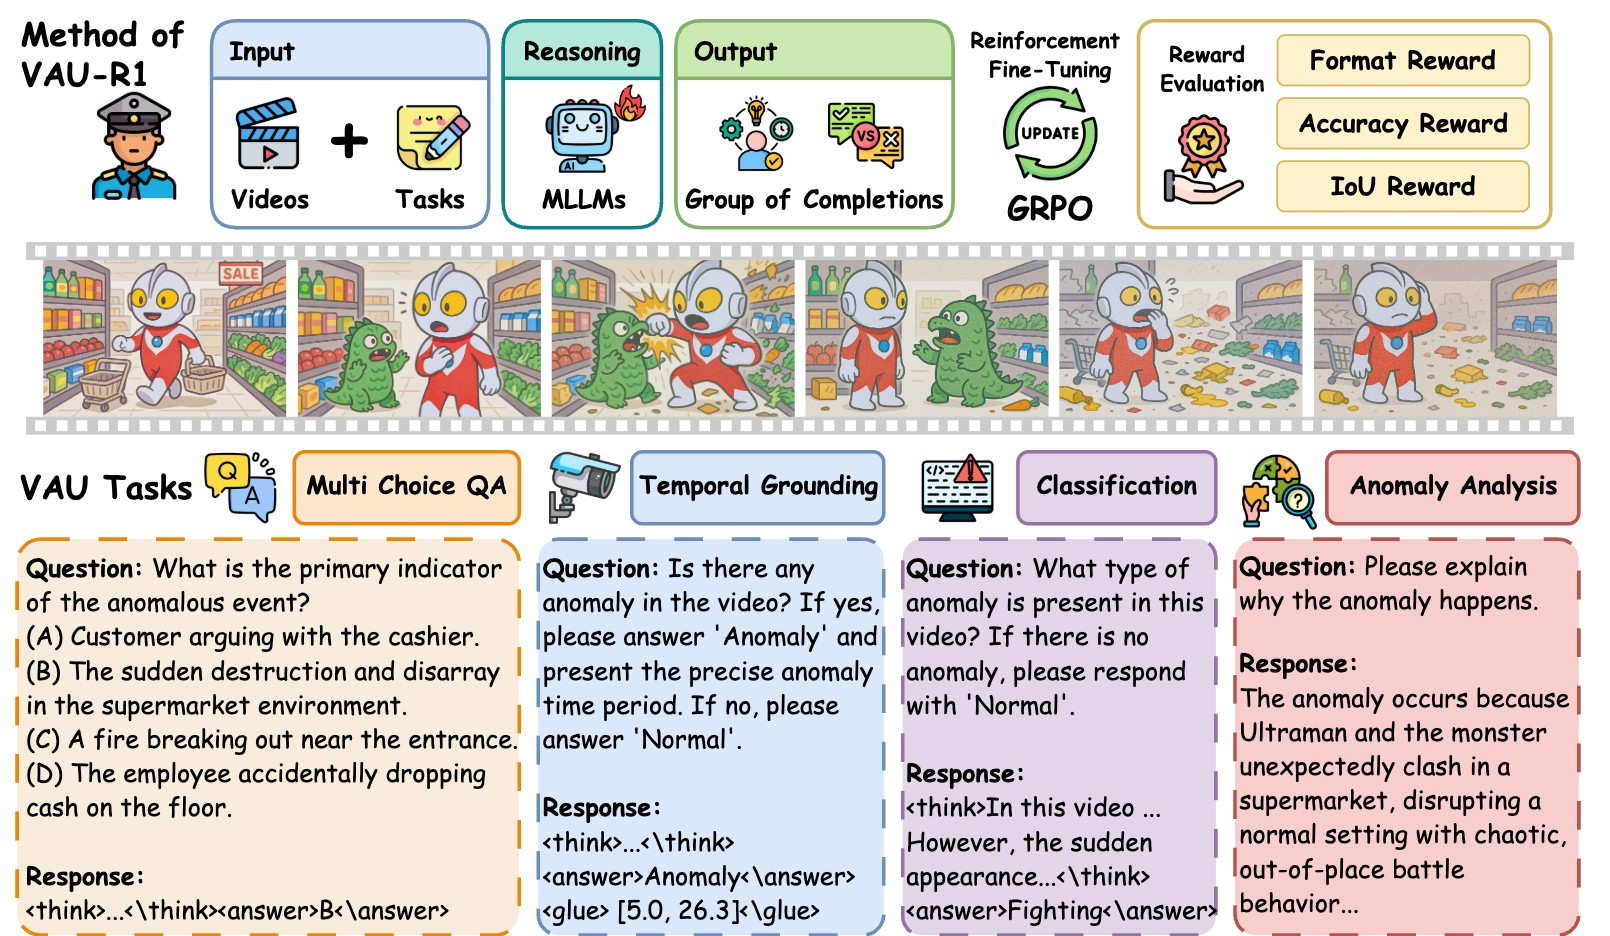
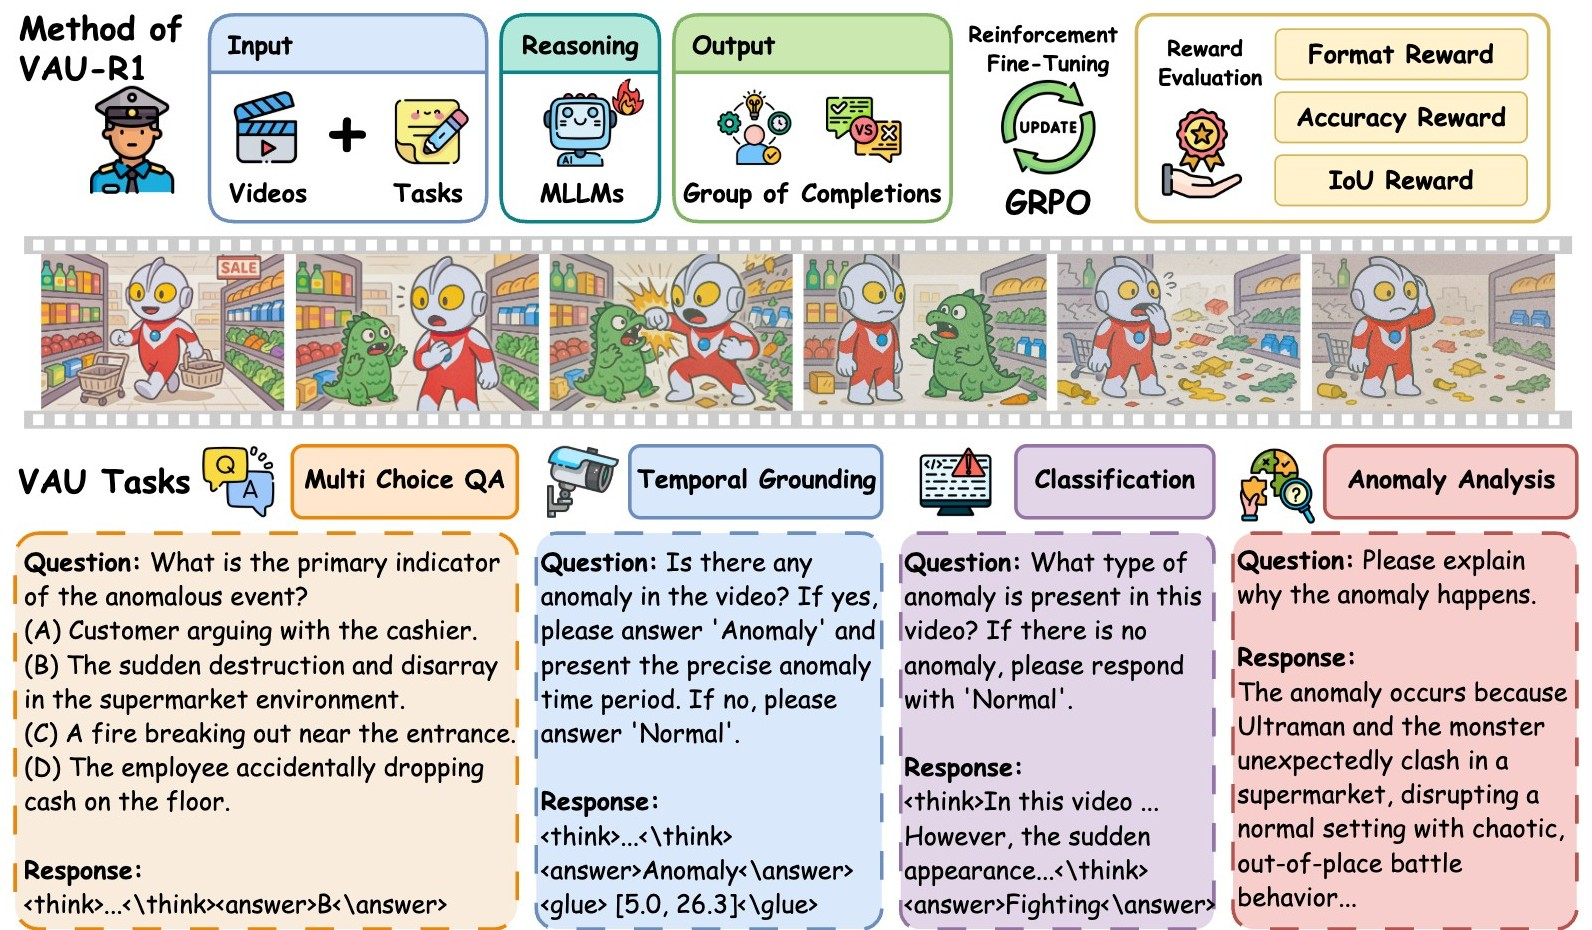
Fix inline scripts broken by HTML compression in production
compress_html joins the page into one line, so a leading // comment
disabled the rest of each inline script (single-image zoom, external
links in new tabs, nav scroll highlight). Use block comments instead.

Also set the full owner/repo name so production builds work locally,
and trim the white margin from the VAU-R1 preview.

diff --git a/_includes/scripts.html b/_includes/scripts.html
@@ -2,17 +2,16 @@
 
 <script>
   $(function () {
-    // expose the sticky masthead height to CSS (anchor offsets, sticky sidebar)
+    /* expose the sticky masthead height to CSS (anchor offsets, sticky sidebar) */
     var setMastheadHeight = function () {
       document.documentElement.style.setProperty('--masthead-h', $('.masthead').outerHeight() + 'px');
     };
     setMastheadHeight();
     $(window).on('resize', setMastheadHeight);
-    // the theme's jQuery smooth scroll uses a fixed offset that ignores the
-    // sticky masthead; native smooth scrolling + scroll-margin-top handles it
+    /* the theme's jQuery smooth scroll uses a fixed offset that ignores the sticky masthead; native smooth scrolling + scroll-margin-top handles it */
     $('a').off('click.smoothscroll');
 
-    // highlight the nav item of the section currently in view
+    /* highlight the nav item of the section currently in view */
     var navLinks = $('.masthead__menu-item a').filter(function () {
       return this.hash && this.pathname === location.pathname && document.getElementById(this.hash.slice(1));
     });
@@ -23,7 +22,7 @@
       sections.forEach(function (sec) {
         if (sec.getBoundingClientRect().top <= line) current = sec;
       });
-      // at the very bottom, the last section is the one being read
+      /* at the very bottom, the last section is the one being read */
       if (window.innerHeight + window.scrollY >= document.body.scrollHeight - 2) current = sections[sections.length - 1];
       navLinks.each(function () {
         $(this).toggleClass('is-active', current && this.hash === '#' + current.id);
@@ -35,7 +34,7 @@
     }
   });
 
-  // Open external sites and PDFs in a new tab; in-page anchors and image zooms stay put
+  /* Open external sites and PDFs in a new tab; in-page anchors and image zooms stay put */
   document.querySelectorAll('a[href]').forEach(function (a) {
     var external = /^https?:$/.test(a.protocol) && a.hostname !== location.hostname;
     var pdf = /\.pdf$/i.test(a.pathname);

diff --git a/_pages/about.md b/_pages/about.md
@@ -282,8 +282,7 @@ His research interests include multimodal learning, 3D spatial reasoning, vision
 </div>
 
 <script>
-// Single-image zoom for work previews. The theme turns every .jpg link into a
-// gallery (.image-popup), so rebind these after its ready handler has run.
+/* Single-image zoom for work previews. The theme turns every .jpg link into a gallery (.image-popup), so rebind these after its ready handler has run. */
 document.addEventListener('DOMContentLoaded', function () {
   $(function () {
     var links = $('.work-zoom').removeClass('image-popup');
@@ -299,7 +298,7 @@ document.addEventListener('DOMContentLoaded', function () {
       }
     });
   });
-  // fetch the full-size images once the page has loaded, so zooming is instant
+  /* fetch the full-size images once the page has loaded, so zooming is instant */
   window.addEventListener('load', function () {
     document.querySelectorAll('.work-zoom').forEach(function (a) { new Image().src = a.href; });
   });
